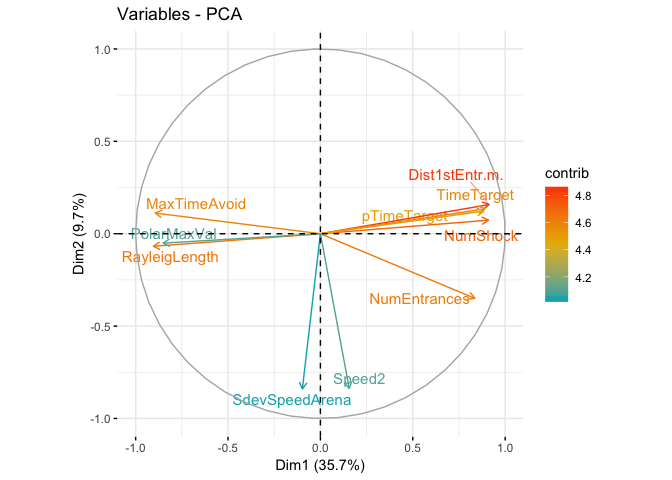
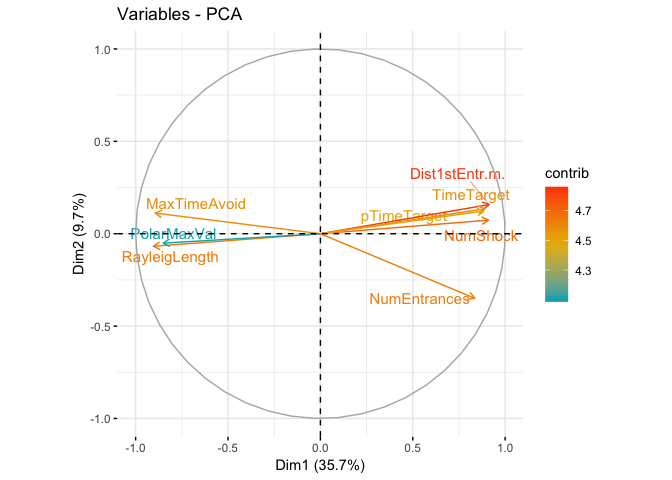
dropped hab from pca

diff --git a/scripts/01a_behavior_analysis.md b/scripts/01a_behavior_analysis.md
@@ -427,8 +427,12 @@ of speed.
 
 Next, I next reduced the dimentionality of the data with a PCA anlaysis.
 
-    longdata <- makelongdata(behavior)
-    Z <- longdata[,3:362]
+    dataforpca <- behavior %>%
+      filter(TrainSessionCombo != "Hab")
+
+    longdata <- makelongdata(dataforpca)
+
+    Z <- longdata[,3:322]
     Z <- Z[,apply(Z, 2, var, na.rm=TRUE) != 0]
     pc = prcomp(Z, scale.=TRUE)
     loadings <- pc$rotation
@@ -436,6 +440,7 @@ Next, I next reduced the dimentionality of the data with a PCA anlaysis.
 
     scoresdf <- makepcadf(behavior) #create the df of pcas
     rotationdf <- mkrotationdf(behavior) #loadings for specific factors
+
     behaviormatrix <- behavior[c(20:58)]  # for 2nd pca analysis
     scoresdf$PC1 <- scoresdf$PC1 * -1
     scoresdf$APA2 <- factor(scoresdf$APA2, levels = c("yoked-consistent" ,"consistent", "yoked-conflict", "conflict"))
@@ -619,7 +624,7 @@ Next, I next reduced the dimentionality of the data with a PCA anlaysis.
                  col.var = "contrib", # Color by contributions to the PC
                  gradient.cols = c("#00AFBB", "#E7B800", "#FC4E07"),
                  repel = TRUE,     # Avoid text overlapping
-                 select.var = list(contrib = 10))
+                 select.var = list(contrib = 8))
 
 ![](../figures/01_behavior/PCA-3.png)
 
